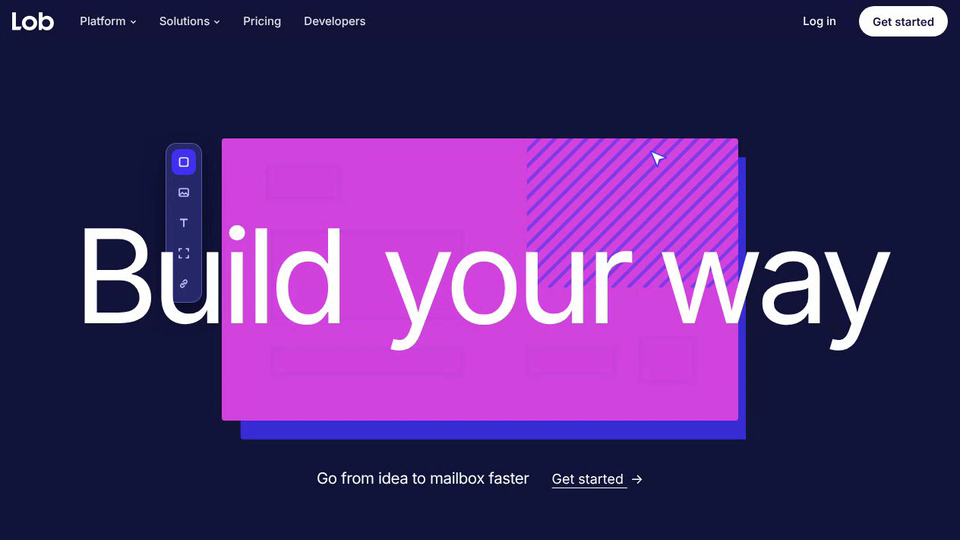
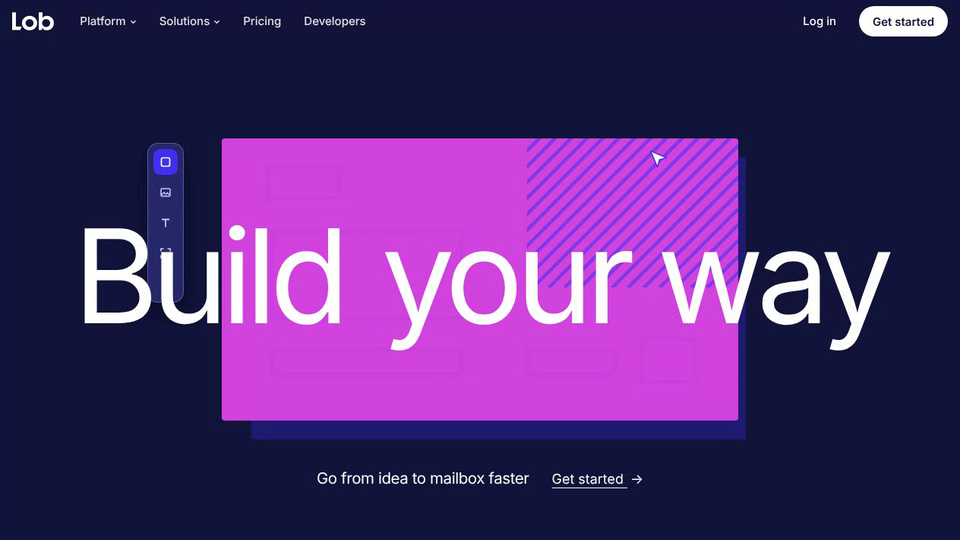
Lob Get Started: hero postcard shadow, headline, pills, QR, QA checks (#860)
* Lob Get Started: website mockup on dark navy

Shopify /start scroll structure for Lob: build your way hero with a
cycling mail collage, five stacked templates that open into a full
template preview, a scroll-driven Visual Editor, a CTA section with
QR code, PURL and coupon code, a fanned CTA card lineup and a centered
closing CTA.

Claude-Session: https://claude.ai/code/session_016rpgucWKf3te6zwsCQ1J4C

* Lob Get Started: chosen template drops into the Visual Editor

The Choose your template stack and the Visual Editor are now one
scroll section: the middle card is picked, the editor rises, and a
cursor carries the card into the canvas, where it opens into its
editable layers before the import, edit, swap and personalize steps.

Claude-Session: https://claude.ai/code/session_016rpgucWKf3te6zwsCQ1J4C

* Lob Get Started: lineup heading is Be at the top of the mail stack like these masters

Claude-Session: https://claude.ai/code/session_016rpgucWKf3te6zwsCQ1J4C

* Lob Get Started: lineup heading is Top of the mail stack

Claude-Session: https://claude.ai/code/session_016rpgucWKf3te6zwsCQ1J4C

* Lob Get Started: landscape mail stack cards, no tab labels

Claude-Session: https://claude.ai/code/session_016rpgucWKf3te6zwsCQ1J4C

* Lob Get Started: closing CTA on three lines, no Template Gallery in the nav

Claude-Session: https://claude.ai/code/session_016rpgucWKf3te6zwsCQ1J4C

* Lob Get Started: no outline on the picked template card
[…]

Changed region(s): [[0.25, 0.563, 0.7812, 0.8296], [0.1562, 0.2667, 0.2188, 0.563], [0.75, 0.2963, 0.7812, 0.5037]]

diff --git a/lob-get-started/index.html b/lob-get-started/index.html
@@ -130,7 +130,7 @@ html body nav.back:not(.sb-panel):not(:has(>div))>a,html body nav.back:not(.sb-p
 .qa{position:absolute;left:50%;top:-34px;transform:translateX(-50%) translateY(6px);height:30px;padding:0 14px;border-radius:99px;background:#262a6b;color:#fff;display:flex;align-items:center;gap:8px;font:700 11px var(--sans);letter-spacing:.12em;white-space:nowrap;opacity:0;transition:opacity .3s,transform .3s;z-index:3}
 .qa.on{opacity:1;transform:translateX(-50%)}
 .qa i{font-style:normal;font-size:13px;font-weight:700;color:var(--mint)}
-.rail{position:absolute;left:-64px;top:40px;width:48px;padding:7px;border-radius:14px;background:#262a6b;border:1px solid rgba(169,156,255,.4);display:flex;flex-direction:column;gap:6px;box-shadow:0 14px 30px rgba(0,0,0,.35);opacity:0;transform:translateX(-8px);transition:opacity .35s,transform .35s;z-index:3}
+.rail{position:absolute;left:-88px;top:40px;width:48px;padding:7px;border-radius:14px;background:#262a6b;border:1px solid rgba(169,156,255,.4);display:flex;flex-direction:column;gap:6px;box-shadow:0 14px 30px rgba(0,0,0,.35);opacity:0;transform:translateX(-8px);transition:opacity .35s,transform .35s;z-index:3}
 .rail.on{opacity:1;transform:none}
 .rail b{height:34px;border-radius:9px;display:grid;place-items:center;color:#c9c4ff;transition:background .2s,color .2s}
 .rail b svg{width:16px;height:16px}
@@ -397,7 +397,6 @@ footer nav{display:flex;gap:22px;margin-left:auto;flex-wrap:wrap}
           <div class="cr" id="cr1"><span>Deliverability</span><i></i></div>
           <div class="cr" id="cr2"><span>QR code correct</span><i></i></div>
           <div class="cr" id="cr3"><span>Name matches CSV</span><i></i></div>
-          <div class="csv" id="csv"><svg width="13" height="16" viewBox="0 0 16 20"><path d="M1 1h9l5 5v13H1z" fill="#fff" stroke="#4131f1" stroke-width="1.6" stroke-linejoin="round"/><rect x="4" y="10" width="11" height="5" rx="1" fill="#d244de"/></svg>AUDIENCE.CSV<b>FirstName: Maya</b></div>
         </div>
         <svg class="hcur" id="hcur" viewBox="0 0 24 24"><path d="M.7.7L23.8 10.3 13.4 13 10.6 23.8z" fill="#fff" stroke="#4333f0" stroke-width="1.7" stroke-linejoin="round"/></svg>
       </div>
@@ -558,9 +557,10 @@ const EL_ORDER = [3, 4, 2, 0, 1];
 const IMG1 = new Image(); IMG1.src = 'assets/care-1.webp';
 const IMG2 = new Image(); IMG2.src = 'assets/care-2.webp';
 const IMG3 = new Image(); IMG3.src = 'assets/care-3.webp';
-const QRM = (() => { const n = 25; let s = 23; const out = []; const rnd = () => { s = (s * 9301 + 49297) % 233280; return s / 233280; };
-  const fd = (x, y) => x < 7 && y < 7 || x >= n - 7 && y < 7 || x < 7 && y >= n - 7;
-  for (let y = 0; y < n; y++) for (let x = 0; x < n; x++) { let on; if (fd(x, y)) { const fx = x >= n - 7 ? x - (n - 7) : x, fy = y >= n - 7 ? y - (n - 7) : y; on = fx === 0 || fy === 0 || fx === 6 || fy === 6 || (fx >= 2 && fx <= 4 && fy >= 2 && fy <= 4); } else on = rnd() > .52; if (on) out.push([x, y]); }
+const QRM = (() => { const out = [];   // a simplified 11 x 11 code: three finder squares and a few data blocks
+  const finder = (ox, oy) => { for (let y = 0; y < 4; y++) for (let x = 0; x < 4; x++) if (x === 0 || y === 0 || x === 3 || y === 3) out.push([ox + x, oy + y]); out.push([ox + 1.5, oy + 1.5]); };
+  finder(0, 0); finder(7, 0); finder(0, 7);
+  for (const p of [[5, 1], [5, 3], [6, 5], [8, 5], [10, 5], [5, 6], [7, 7], [9, 7], [5, 8], [8, 8], [10, 9], [6, 10], [8, 10], [10, 10], [1, 5], [3, 5]]) out.push(p);
   return out; })();
 const LOOP = 19.4;
 const span = (t, a, b) => cl((t - a) / (b - a));
@@ -613,7 +613,7 @@ function drawDesign(t){
     if (!res) {
       cx.font = '600 25px ui-monospace, Menlo, monospace';
       const tw = cx.measureText('{{FirstName}}').width;
-      if (chipIn > 0) { cx.save(); cx.translate(53, 76); cx.scale(chipIn, chipIn); rr(0, -30, tw + 36, 50, 12); cx.fillStyle = HOT; cx.fill(); cx.fillStyle = WHITE; cx.textBaseline = 'middle'; cx.fillText('{{FirstName}}', 18, -4); cx.restore(); }
+      if (chipIn > 0) { cx.save(); cx.translate(53, 76); cx.scale(chipIn, chipIn); rr(0, -28, tw + 36, 46, 11); cx.fillStyle = HOT; cx.fill(); cx.fillStyle = WHITE; cx.textBaseline = 'middle'; cx.fillText('{{FirstName}}', 18, -5); cx.restore(); }
       cx.font = '500 38px Inter, Helvetica, Arial, sans-serif'; cx.fillStyle = WHITE;
       if (n > 0) cx.fillText(',', 53 + tw + 40, 90);
     } else {
@@ -626,8 +626,8 @@ function drawDesign(t){
     }
     cx.font = '500 38px Inter, Helvetica, Arial, sans-serif'; cx.fillStyle = WHITE;
     const l2 = REST.slice(0, Math.max(0, n - 1));
-    cx.fillText(l2, 53, 148);
-    if (t < 9.8 && Math.floor(t * 4) % 2 === 0) { cx.fillStyle = PINK; cx.fillRect(53 + cx.measureText(l2).width + 3, 116, 3, 38); }
+    cx.fillText(l2, 53, 134);
+    if (t < 9.8 && Math.floor(t * 4) % 2 === 0) { cx.fillStyle = PINK; cx.fillRect(53 + cx.measureText(l2).width + 3, 102, 3, 38); }
     cx.restore();
   }
   // checklist: check circles pop, bars grow, later real text
@@ -637,7 +637,7 @@ function drawDesign(t){
     const pc = popIn((t - 6.9 - k * .25) / .35);
     if (pc > 0) checkMark(65, y, pc);
     const g = easeIO(span(t, 7.0 + k * .25, 7.5 + k * .25));
-    if (g > 0 && ct < 1) { cx.save(); cx.globalAlpha = 1 - ct; cx.fillStyle = SOFT; rr(92, y - 8, [240, 190][k] * g, -40, 8); cx.fill(); cx.restore(); }
+    if (g > 0 && ct < 1) { cx.save(); cx.globalAlpha = 1 - ct; cx.fillStyle = SOFT; rr(92, y - 8, [240, 190][k] * g, 16, 8); cx.fill(); cx.restore(); }
     if (ct > 0) { cx.save(); cx.globalAlpha = ct; cx.fillStyle = WHITE; cx.font = '500 22px Inter, Helvetica, Arial, sans-serif'; cx.textBaseline = 'middle'; cx.fillText(['Same-week appointments', 'Covered by your plan'][k], 92, y + 1); cx.restore(); }
   }
   // QR card: pops in with brackets, later the real code draws in
@@ -650,7 +650,7 @@ function drawDesign(t){
     cx.save(); cx.globalAlpha = 1 - qr; cx.strokeStyle = PU; cx.lineWidth = 3.6;
     const br = (x, y, dx, dy) => { cx.beginPath(); cx.moveTo(x + dx * 16, y); cx.lineTo(x, y); cx.lineTo(x, y + dy * 16); cx.stroke(); };
     br(28, 28, 1, 1); br(88, 28, -1, 1); br(28, 88, 1, -1); br(88, 88, -1, -1); cx.restore();
-    if (qr > 0) { cx.save(); cx.beginPath(); cx.rect(12, 12, 92, 92 * qr); cx.clip(); cx.fillStyle = '#1e2245'; const m = 92 / 25; for (const [x, y] of QRM) cx.fillRect(12 + x * m, 12 + y * m, m + .2, m + .2); cx.restore(); }
+    if (qr > 0) { cx.save(); cx.beginPath(); cx.rect(12, 12, 92, 92 * qr); cx.clip(); cx.fillStyle = '#1e2245'; const m = 92 / 11; for (const [x, y] of QRM) cx.fillRect(12 + x * m, 12 + y * m, m + .2, m + .2); cx.restore(); }
     cx.restore();
   }
   // URL: two bars and a pill, later the PURL on hot pink
@@ -682,7 +682,7 @@ function drawCard(t){
   const radius = lerp(6, 3, d);
   cx.save();
   cx.translate(CW0 / 2, CH0 / 2); cx.scale(grow, grow); cx.translate(-CW0 / 2, -CH0 / 2);
-  rr(32, 32, CW0, CH0, radius); cx.fillStyle = 'rgba(65,49,241,.85)'; cx.fill();   // hard offset shadow, purple
+  rr(50, 32, CW0, CH0, radius); cx.fillStyle = 'rgba(65,49,241,.3)'; cx.fill();   // hard offset shadow, purple at 30%
   rr(0, 0, CW0, CH0, radius); cx.fillStyle = PINK; cx.fill();
   cx.save(); rr(0, 0, CW0, CH0, radius); cx.clip();
   if (wire > 0) { cx.globalAlpha = wire; hatch(520, -6, 370, 260, PU, 27, 6); cx.globalAlpha = 1; }
@@ -692,7 +692,7 @@ function drawCard(t){
   cx.restore();
 }
 // cursor keyframes in stage px: [t, x, y]
-const HK = [[0, 640, 470], [.4, -40, 65], [4.6, -40, 65], [5.0, 574, 50], [5.6, 574, 50], [6.2, -40, 145], [6.8, -40, 105], [7.6, -40, 225], [8.4, -40, 185], [8.8, -40, 145], [9.9, -40, 225], [10.5, -40, 185], [11.0, 660, 50], [11.6, 660, 52], [11.9, 746, 50], [12.6, 746, 52], [13.1, 760, 470], [LOOP, 760, 470]];
+const HK = [[0, 640, 470], [.4, -64, 65], [4.6, -64, 65], [5.0, 574, 50], [5.6, 574, 50], [6.2, -64, 145], [6.8, -64, 105], [7.6, -64, 225], [8.4, -64, 185], [8.8, -64, 145], [9.9, -64, 225], [10.5, -64, 185], [11.0, 660, 50], [11.6, 660, 52], [11.9, 746, 50], [12.6, 746, 52], [13.1, 760, 470], [LOOP, 760, 470]];
 function at(t, K){ for (let i = 1; i < K.length; i++) if (t <= K[i][0]) { const a = K[i - 1], b = K[i]; const k = easeIO((t - a[0]) / (b[0] - a[0] || 1)); return [lerp(a[1], b[1], k), lerp(a[2], b[2], k)]; } return K[K.length - 1].slice(1); }
 const tog = (el, c, on) => el.classList.toggle(c, !!on);
 function heroAt(t, S){
@@ -722,7 +722,6 @@ function heroAt(t, S){
   tog(HC.qa, 'on', !!chip);
   tog(HC.chk, 'on', t >= 16.1 && t < LOOP - .4);
   tog($('#cr1'), 'ok', t >= 16.5); tog($('#cr2'), 'ok', t >= 17.0); tog($('#cr3'), 'ok', t >= 17.7);
-  tog($('#csv'), 'on', t >= 17.4);
   const [px, py] = at(t, HK);
   HC.cur.style.opacity = t > .3 && t < 12.9 ? 1 : 0;
   HC.cur.style.transform = 'translate(' + px + 'px,' + py + 'px)';
